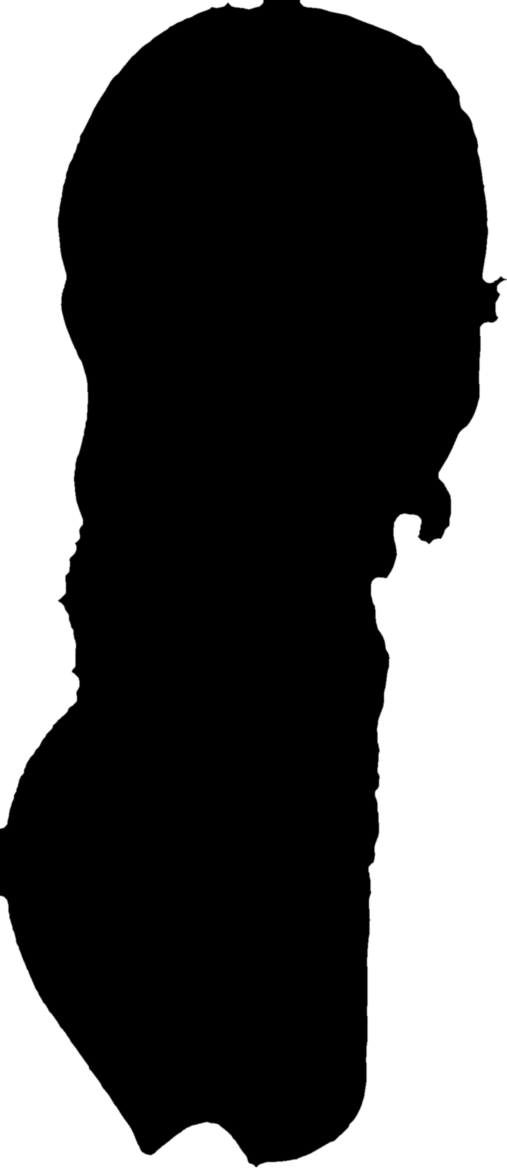
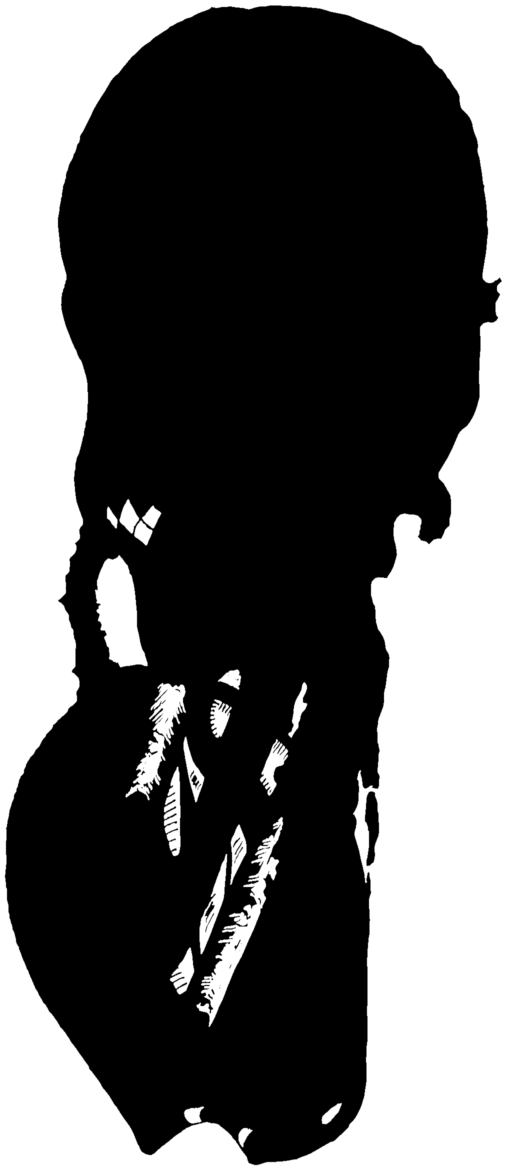
Update website (Fri 09/25/2026 17:47:37.43)

diff --git a/tools/font-finder.html b/tools/font-finder.html
@@ -23,7 +23,7 @@
 
 <link rel="preload" as="font" type="font/woff2" href="../brand/type/futura-display-700.woff2" crossorigin>
 <link rel="preload" as="font" type="font/woff2" href="../brand/type/futura-text-400.woff2" crossorigin>
-<link rel="stylesheet" href="font-finder.css?v=202609251739">
+<link rel="stylesheet" href="font-finder.css?v=202609251747">
 
 <script>
   /* before first paint: the site's stored language; the tool's own surface, black unless set to Stone */
@@ -228,7 +228,7 @@
     <p>© 2026 <a href="../index.html">BAGARI</a> · <a href="../privacy.html"><span class="l en">Privacy</span><span class="l ka">კონფიდენციალურობა</span></a> · <a href="mailto:hello@bagari.studio">hello@bagari.studio</a></p>
   </footer>
 
-  <script src="font-finder.js?v=202609251739"></script>
+  <script src="font-finder.js?v=202609251747"></script>
   <script src="https://challenges.cloudflare.com/turnstile/v0/api.js?render=explicit&amp;onload=ffTurnstileReady" async defer></script>
 </body>
 </html>

diff --git a/index.html b/index.html
@@ -22,7 +22,7 @@
 
 <link rel="preload" as="font" type="font/woff2" href="brand/type/futura-display-700.woff2" crossorigin>
 <link rel="preload" as="font" type="font/woff2" href="brand/type/futura-text-400.woff2" crossorigin>
-<link rel="stylesheet" href="css/style.css?v=202609251739">
+<link rel="stylesheet" href="css/style.css?v=202609251747">
 
 <script>
   /* before first paint, so the page never flashes the wrong edition */
@@ -377,7 +377,7 @@
   <svg width="16" height="16" viewBox="0 0 16 16" aria-hidden="true"><path d="M8 13.5V2.5M3 7.5L8 2.5l5 5" stroke="currentColor" stroke-width="1.5" fill="none" stroke-linecap="square"/></svg>
 </a>
 
-<script src="js/main.js?v=202609251739"></script>
-<script src="js/look.js?v=202609251739" defer></script>
+<script src="js/main.js?v=202609251747"></script>
+<script src="js/look.js?v=202609251747" defer></script>
 </body>
 </html>

diff --git a/start.html b/start.html
@@ -22,7 +22,7 @@
 
 <link rel="preload" as="font" type="font/woff2" href="brand/type/futura-display-700.woff2" crossorigin>
 <link rel="preload" as="font" type="font/woff2" href="brand/type/futura-text-400.woff2" crossorigin>
-<link rel="stylesheet" href="css/style.css?v=202609251739">
+<link rel="stylesheet" href="css/style.css?v=202609251747">
 
 <script>
   /* before first paint, so the page never flashes the wrong edition */
@@ -230,7 +230,7 @@
   <svg width="16" height="16" viewBox="0 0 16 16" aria-hidden="true"><path d="M8 13.5V2.5M3 7.5L8 2.5l5 5" stroke="currentColor" stroke-width="1.5" fill="none" stroke-linecap="square"/></svg>
 </a>
 
-<script src="js/main.js?v=202609251739"></script>
+<script src="js/main.js?v=202609251747"></script>
 <script>
 (function () {
   "use strict";

diff --git a/work/biomi.html b/work/biomi.html
@@ -22,7 +22,7 @@
 
 <link rel="preload" as="font" type="font/woff2" href="../brand/type/futura-display-700.woff2" crossorigin>
 <link rel="preload" as="font" type="font/woff2" href="../brand/type/futura-text-400.woff2" crossorigin>
-<link rel="stylesheet" href="../css/style.css?v=202609251739">
+<link rel="stylesheet" href="../css/style.css?v=202609251747">
 
 <script>
   /* before first paint, so the page never flashes the wrong edition */
@@ -251,6 +251,6 @@
   <svg width="16" height="16" viewBox="0 0 16 16" aria-hidden="true"><path d="M8 13.5V2.5M3 7.5L8 2.5l5 5" stroke="currentColor" stroke-width="1.5" fill="none" stroke-linecap="square"/></svg>
 </a>
 
-<script src="../js/main.js?v=202609251739"></script>
+<script src="../js/main.js?v=202609251747"></script>
 </body>
 </html>

diff --git a/privacy.html b/privacy.html
@@ -16,7 +16,7 @@
 
 <link rel="preload" as="font" type="font/woff2" href="brand/type/futura-display-700.woff2" crossorigin>
 <link rel="preload" as="font" type="font/woff2" href="brand/type/futura-text-400.woff2" crossorigin>
-<link rel="stylesheet" href="css/style.css?v=202609251739">
+<link rel="stylesheet" href="css/style.css?v=202609251747">
 
 <script>
   /* before first paint, so the page never flashes the wrong edition */
@@ -150,6 +150,6 @@
   <svg width="16" height="16" viewBox="0 0 16 16" aria-hidden="true"><path d="M8 13.5V2.5M3 7.5L8 2.5l5 5" stroke="currentColor" stroke-width="1.5" fill="none" stroke-linecap="square"/></svg>
 </a>
 
-<script src="js/main.js?v=202609251739"></script>
+<script src="js/main.js?v=202609251747"></script>
 </body>
 </html>

diff --git a/css/style.css b/css/style.css
@@ -1563,3 +1563,6 @@ html[data-lang="ka"] .site-preview-view .l.ka { display: block; }
 @media (max-width: 900px) {
   .studio-art .ink.ink-fill { position: absolute; top: 0; left: 0; }  /* the drawing is in flow here; the fill lies on it */
 }
+/* the caption crosses the heart's point: full ink so it reads on the red */
+.studio-art figcaption { position: relative; z-index: 2; color: var(--text); }
+@media (min-width: 901px) { .studio-art figcaption { position: absolute; } }
